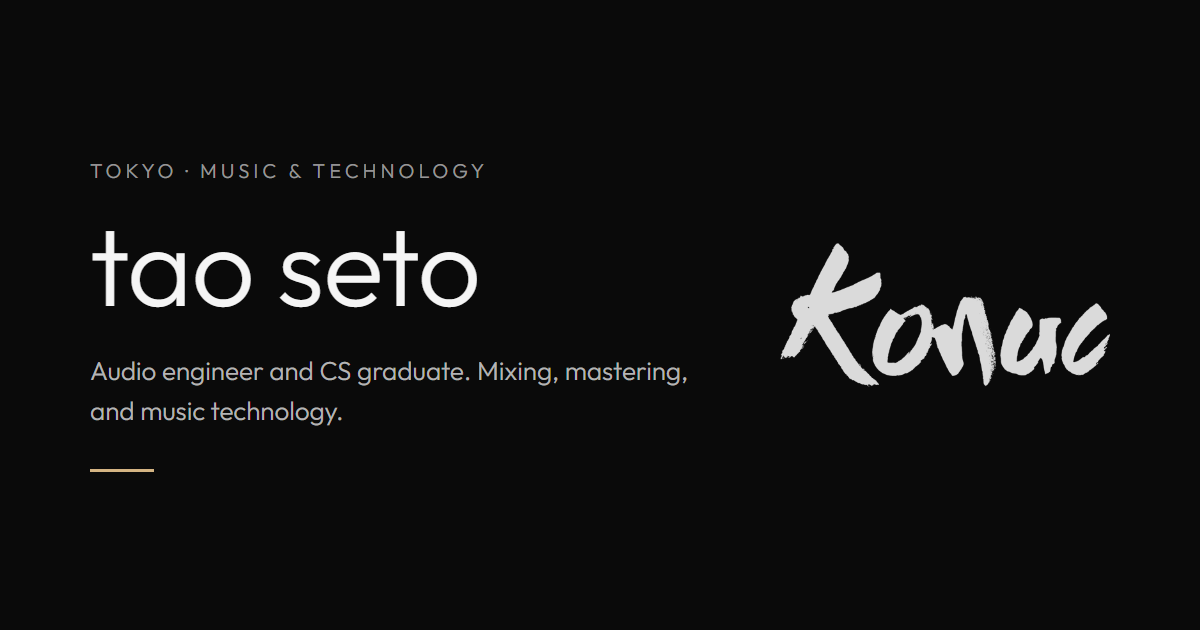
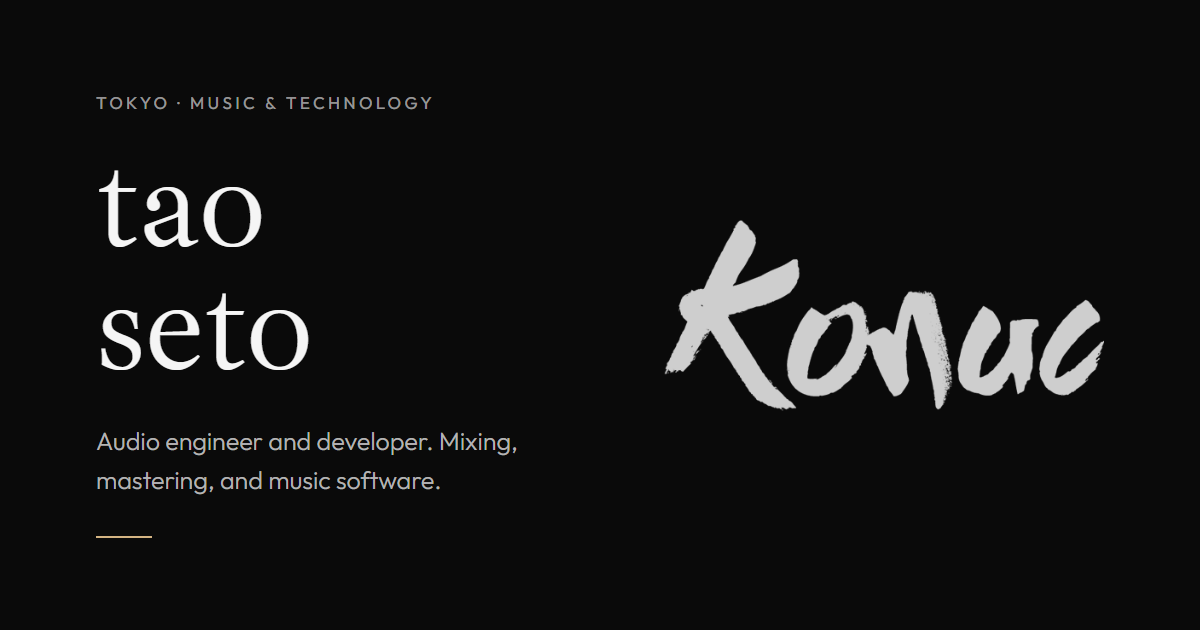
Refresh link preview image and page metadata
The preview card now matches the current home hero: the serif stacked
name beside the Konac mark. Descriptions describe the work as audio
engineering and music software, and each page gets a full title,
Open Graph and Twitter descriptions, and a canonical URL.

diff --git a/index.html b/index.html
@@ -13,23 +13,28 @@
     <title>tao seto</title>
 
     <!-- SEO -->
-    <meta name="description" content="Tokyo-based musician and CS graduate." />
+    <meta name="description" content="Tao Seto is a Tokyo-based audio engineer and developer. Mixing, mastering, and music software from a CS and music technology graduate." />
+    <meta name="author" content="Tao Seto" />
 
     <!-- Open Graph -->
     <meta property="og:type" content="website" />
-    <meta property="og:url" content="https://taoseto.com" />
+    <meta property="og:site_name" content="tao seto" />
+    <meta property="og:locale" content="en_US" />
+    <meta property="og:url" content="https://taoseto.com/" />
     <meta property="og:title" content="tao seto" />
-    <meta property="og:description" content="Tokyo-based musician and CS graduate." />
-    <meta property="og:image" content="https://taoseto.com/og-image.png" />
+    <meta property="og:description" content="Tokyo-based audio engineer and developer. Mixing, mastering, and music software." />
+    <meta property="og:image" content="https://taoseto.com/og-image.png?v=2" />
+    <meta property="og:image:type" content="image/png" />
     <meta property="og:image:width" content="1200" />
     <meta property="og:image:height" content="630" />
-    <meta property="og:image:alt" content="tao seto — Tokyo, music and technology" />
+    <meta property="og:image:alt" content="tao seto beside the Konac wordmark — Tokyo, music and technology" />
 
     <!-- Twitter Card -->
     <meta name="twitter:card" content="summary_large_image" />
     <meta name="twitter:title" content="tao seto" />
-    <meta name="twitter:description" content="Tokyo-based musician and CS graduate." />
-    <meta name="twitter:image" content="https://taoseto.com/og-image.png" />
+    <meta name="twitter:description" content="Tokyo-based audio engineer and developer. Mixing, mastering, and music software." />
+    <meta name="twitter:image" content="https://taoseto.com/og-image.png?v=2" />
+    <meta name="twitter:image:alt" content="tao seto beside the Konac wordmark — Tokyo, music and technology" />
 
     <!-- Google tag (gtag.js) -->
     <script async src="https://www.googletagmanager.com/gtag/js?id=G-3CNL03NWN0"></script>

diff --git a/src/components/Hero/Hero.jsx b/src/components/Hero/Hero.jsx
@@ -3,23 +3,29 @@ import { Link } from "react-router-dom";
 import styles from "./Hero.module.css";
 import heroImage from "../../../assets/hero/heroImage.png";
 
+const PAGE_TITLE = "tao seto";
+const PAGE_URL = "https://taoseto.com/";
+const PAGE_DESCRIPTION =
+  "Tao Seto is a Tokyo-based audio engineer and developer. Mixing, mastering, and music software from a CS and music technology graduate.";
+
 export const Hero = () => {
   return (
     <section className={styles.section}>
       <Helmet>
-        <title>tao seto</title>
-        <meta
-          name="description"
-          content="Tao Seto is a Tokyo-based audio engineer and CS graduate. Mixing, mastering, and music technology. 12+ years in music production, 7+ years in tech."
-        />
-        <meta property="og:title" content="tao seto" />
-        <meta property="og:url" content="https://taoseto.com" />
+        <title>{PAGE_TITLE}</title>
+        <meta name="description" content={PAGE_DESCRIPTION} />
+        <link rel="canonical" href={PAGE_URL} />
+        <meta property="og:title" content={PAGE_TITLE} />
+        <meta property="og:description" content={PAGE_DESCRIPTION} />
+        <meta property="og:url" content={PAGE_URL} />
+        <meta name="twitter:title" content={PAGE_TITLE} />
+        <meta name="twitter:description" content={PAGE_DESCRIPTION} />
       </Helmet>
       <div className={styles.container}>
         <div className={styles.assembly}>
           <div className={styles.content}>
             {/* One word per line for a taller headline; the space between the
-                spans keeps the accessible name "tao seto" rather than "taoseto". */}
+                spans keeps the accessible name {PAGE_TITLE} rather than "taoseto". */}
             <h1 className={styles.name}>
               <span className={styles.nameLine}>tao</span>{" "}
               <span className={styles.nameLine}>seto</span>

diff --git a/src/components/Commissions/Commissions.jsx b/src/components/Commissions/Commissions.jsx
@@ -4,6 +4,11 @@ import styles from "./Commissions.module.css";
 import { getApiEndpoint } from "../../config";
 import { CommissionsPortfolio2 as CommissionsPortfolio } from "./CommissionsPortfolio2";
 
+const PAGE_TITLE = "Commissions · tao seto";
+const PAGE_URL = "https://taoseto.com/commissions";
+const PAGE_DESCRIPTION =
+  "Mixing, mastering, and music technology commissions from Tao Seto. Radio-ready mixdowns, commercial-grade masters, and priority turnaround.";
+
 // `id` is the value submitted to the backend, so it stays stable even when the
 // display name changes.
 const SERVICES = [
@@ -134,10 +139,14 @@ export const Commissions = () => {
   return (
     <section className={styles.container}>
       <Helmet>
-        <title>Commissions</title>
-        <meta name="description" content="Mixing, mastering, and music technology services by Tao Seto. Radio-ready mixdowns, commercial-grade masters, and priority turnaround." />
-        <meta property="og:title" content="Commissions" />
-        <meta property="og:url" content="https://taoseto.com/commissions" />
+        <title>{PAGE_TITLE}</title>
+        <meta name="description" content={PAGE_DESCRIPTION} />
+        <link rel="canonical" href={PAGE_URL} />
+        <meta property="og:title" content={PAGE_TITLE} />
+        <meta property="og:description" content={PAGE_DESCRIPTION} />
+        <meta property="og:url" content={PAGE_URL} />
+        <meta name="twitter:title" content={PAGE_TITLE} />
+        <meta name="twitter:description" content={PAGE_DESCRIPTION} />
       </Helmet>
       <header className={styles.pageHeader}>
         <h1 className={styles.pageHeading}>Commissions</h1>

diff --git a/src/components/ExperienceV2/ExperienceV2.jsx b/src/components/ExperienceV2/ExperienceV2.jsx
@@ -1,6 +1,11 @@
 import { Helmet } from 'react-helmet-async';
 import styles from './ExperienceV2.module.css';
 
+const PAGE_TITLE = 'Experience · tao seto';
+const PAGE_URL = 'https://taoseto.com/experience';
+const PAGE_DESCRIPTION =
+  'Tao Seto’s work in music production, audio engineering, and software engineering, including Konac, Rhythmedia, and State Street.';
+
 // Company logos — add image files to assets/experience/ to enable
 const logos = import.meta.glob('../../../assets/experience/*.{webp,png,jpg,svg}', { eager: true });
 const getLogo = (name) => {
@@ -64,10 +69,14 @@ export const ExperienceV2 = () => {
   return (
     <section className={styles.container}>
       <Helmet>
-        <title>Experience</title>
-        <meta name="description" content="Tao Seto's professional experience in music production, audio engineering, and software engineering. Konac, Rhythmedia, State Street, and more." />
-        <meta property="og:title" content="Experience" />
-        <meta property="og:url" content="https://taoseto.com/experience" />
+        <title>{PAGE_TITLE}</title>
+        <meta name="description" content={PAGE_DESCRIPTION} />
+        <link rel="canonical" href={PAGE_URL} />
+        <meta property="og:title" content={PAGE_TITLE} />
+        <meta property="og:description" content={PAGE_DESCRIPTION} />
+        <meta property="og:url" content={PAGE_URL} />
+        <meta name="twitter:title" content={PAGE_TITLE} />
+        <meta name="twitter:description" content={PAGE_DESCRIPTION} />
       </Helmet>
 
       <div className={styles.content} id="content">

diff --git a/src/components/ProjectsV2/ProjectsV2.jsx b/src/components/ProjectsV2/ProjectsV2.jsx
@@ -7,6 +7,11 @@ import TheSlushieMachine from "../../../assets/projects/the_slushie_machine.webp
 import LyricLike from "../../../assets/projects/lyriclike.webp";
 import styles from "./ProjectsV2.module.css";
 
+const PAGE_TITLE = "Projects · tao seto";
+const PAGE_URL = "https://taoseto.com/projects";
+const PAGE_DESCRIPTION =
+  "Software and audio projects by Tao Seto: JUCE audio plugins, web apps, tools, and games.";
+
 const PROJECTS = [
   {
     title: "LyricLike.com",
@@ -55,13 +60,14 @@ export const ProjectsV2 = () => {
   return (
     <section className={styles.container}>
       <Helmet>
-        <title>Projects</title>
-        <meta
-          name="description"
-          content="Software and audio projects by Tao Seto — JUCE audio plugins, web apps, tools, and games."
-        />
-        <meta property="og:title" content="Projects" />
-        <meta property="og:url" content="https://taoseto.com/projects" />
+        <title>{PAGE_TITLE}</title>
+        <meta name="description" content={PAGE_DESCRIPTION} />
+        <link rel="canonical" href={PAGE_URL} />
+        <meta property="og:title" content={PAGE_TITLE} />
+        <meta property="og:description" content={PAGE_DESCRIPTION} />
+        <meta property="og:url" content={PAGE_URL} />
+        <meta name="twitter:title" content={PAGE_TITLE} />
+        <meta name="twitter:description" content={PAGE_DESCRIPTION} />
       </Helmet>
 
       <div className={styles.content}>
